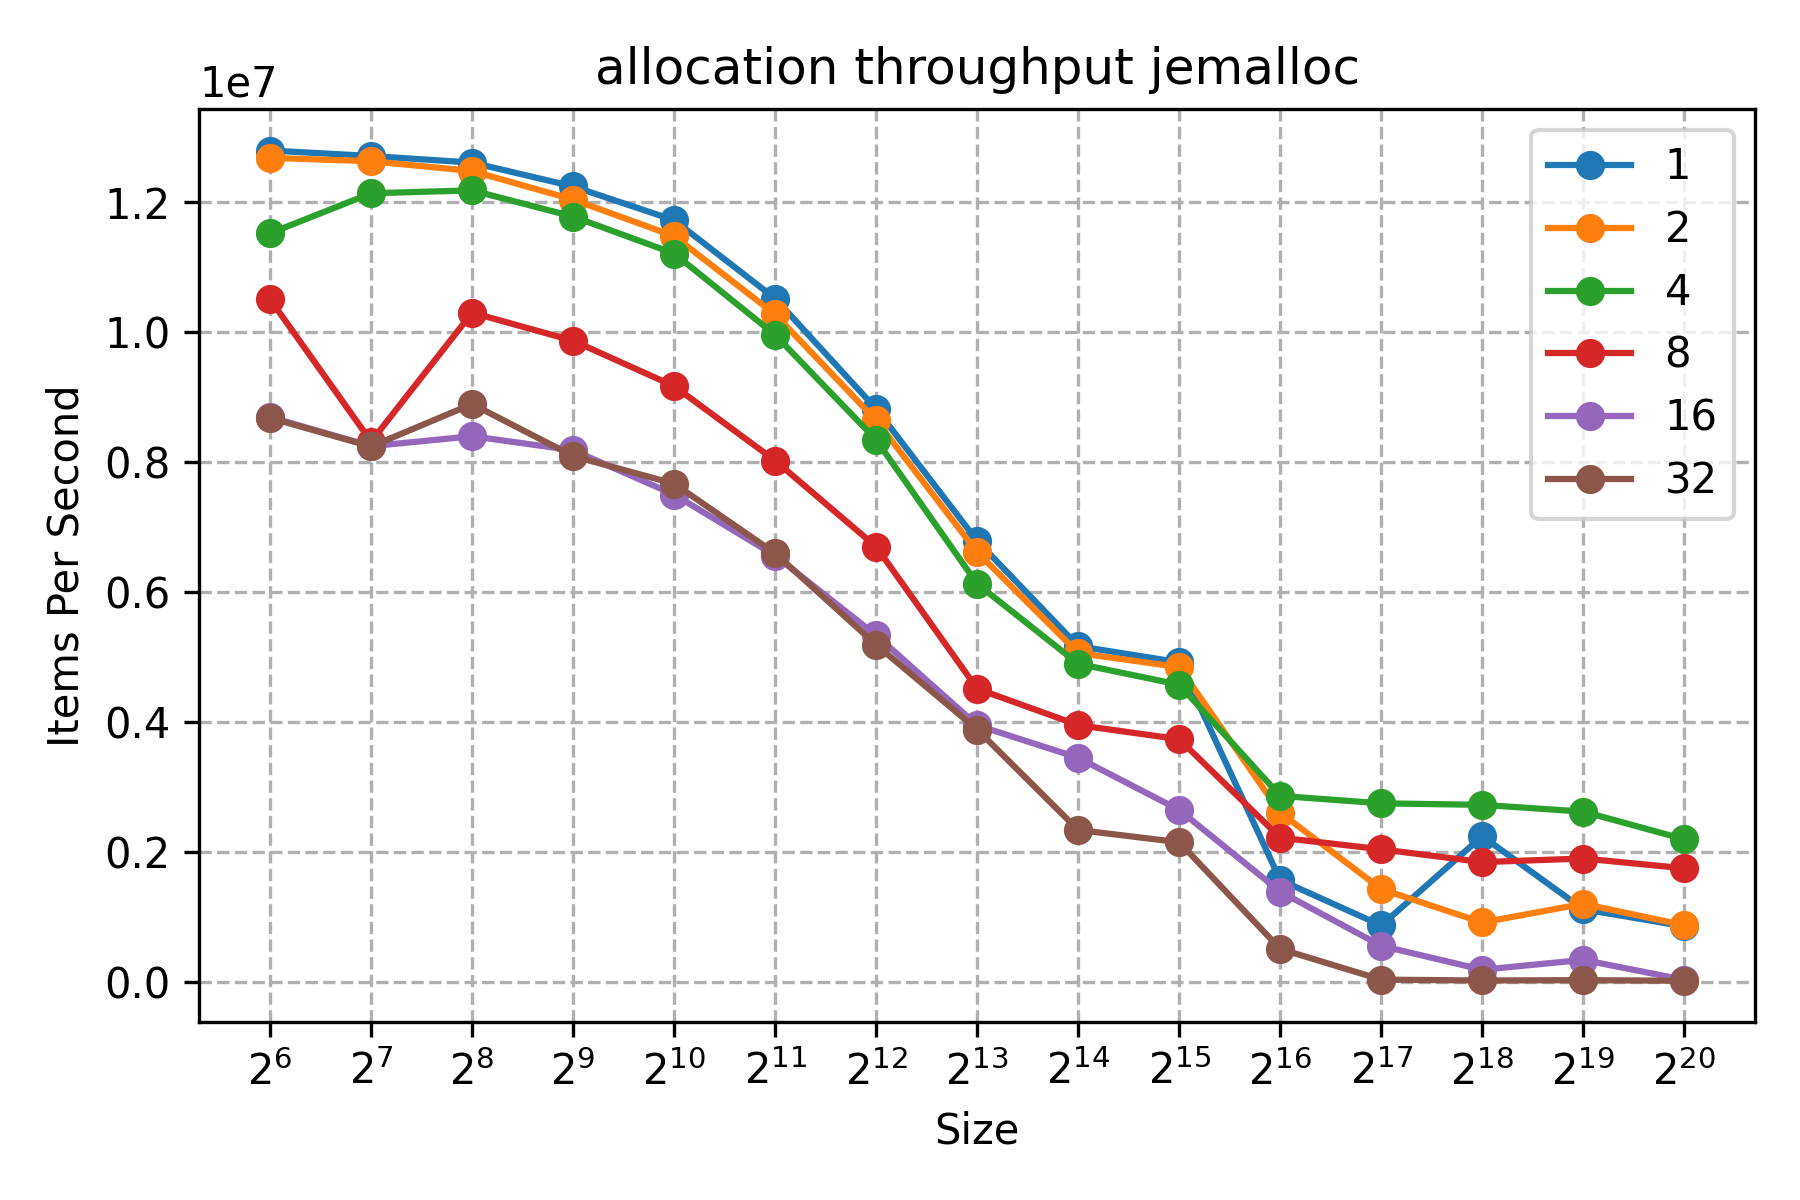
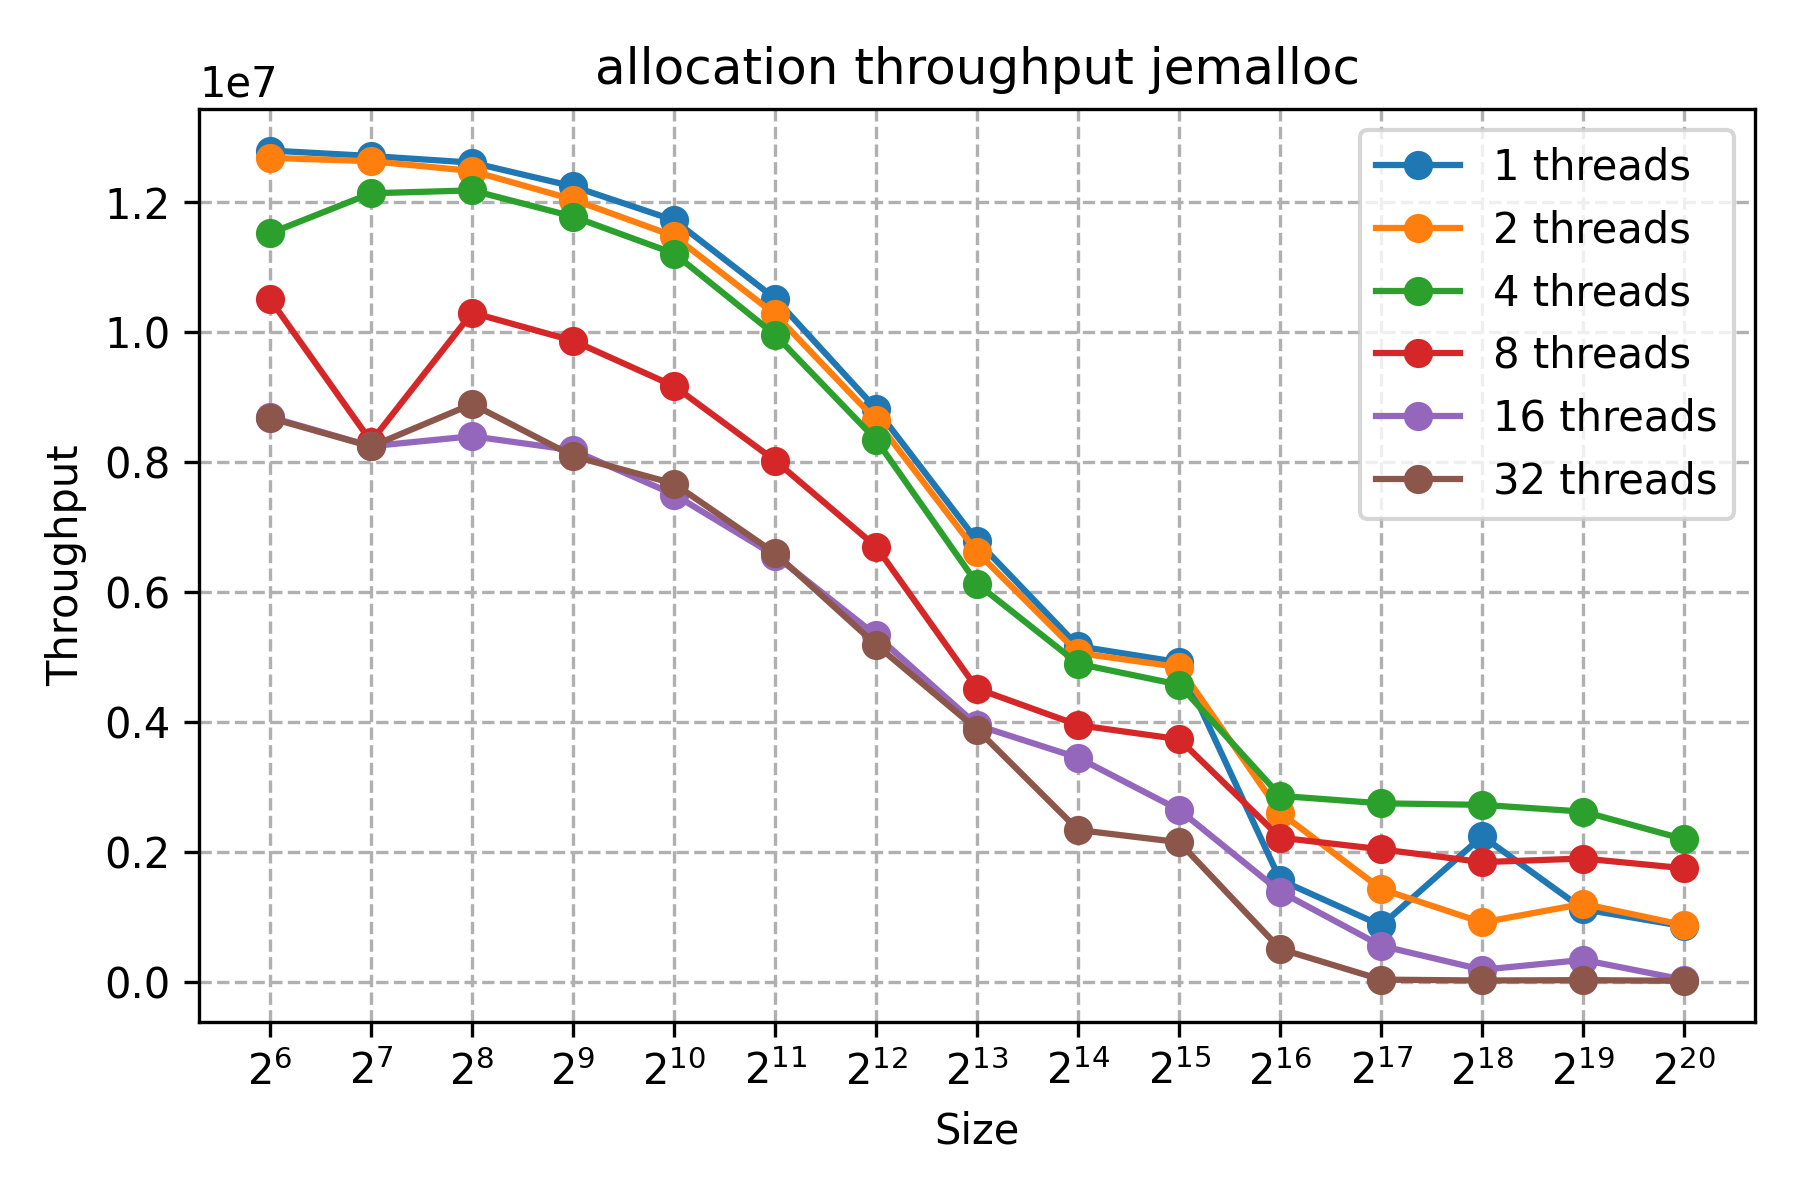
more plots

Changed region(s): [[0.7467, 0.0925, 0.9644, 0.4317], [0.0311, 0.3083, 0.0622, 0.6167]]

diff --git a/benchmark_analysis.py b/benchmark_analysis.py
@@ -64,10 +64,14 @@ def plot_data(plot_title, series_grouping, x_label, y_label, facet_group=None, p
             if y_label in entry:
                 grouped_data[entry[series_grouping]].append((entry[x_label], entry[y_label]))
 
-        for library, points in grouped_data.items():
+        for grouping_label, points in grouped_data.items():
             points.sort(key=lambda x: x[0])
             xs, ys = zip(*points)
-            ax.plot(xs, ys, marker='o', label=library)
+            if series_grouping == "threads":
+                grouping_suffix = " threads"
+            else:
+                grouping_suffix = ""
+            ax.plot(xs, ys, marker='o', label=f"{grouping_label}{grouping_suffix}")
 
         if facet_group:
             if facet_group == "size":
@@ -80,7 +84,14 @@ def plot_data(plot_title, series_grouping, x_label, y_label, facet_group=None, p
             ax.set_title(plot_title.replace("_", " "))
 
         ax.set_xlabel(x_label.title())
-        ax.set_ylabel(y_label.replace("_", " ").title())
+        y_label_final = y_label.replace("_", " ").title()
+        if y_label == "real_time":
+            y_label_final = "Latency"
+        if "time" in y_label:
+            y_label_final = f"{y_label_final} ({bm['time_unit']})"
+        if y_label == "items_per_second":
+            y_label_final = "Throughput"
+        ax.set_ylabel(y_label_final)
         ax.set_xscale('log', base=2)
 
         all_grouped_values = [size for points in grouped_data.values() for size, _ in points]
@@ -108,6 +119,11 @@ plot_data("allocation_throughput", "implementation", "threads", "items_per_secon
 plot_data("allocation_throughput", "implementation", "size", "items_per_second", facet_group="threads", plot_filter=lambda b: b["bm_name"] == "AllocationThroughput")
 plot_data("allocation_throughput_jemalloc", "threads", "size", "items_per_second", plot_filter=lambda b: b["implementation"] == "jemalloc" and b["bm_name"] == "AllocationThroughput")
 
+plot_data("allocation_latency", "implementation", "threads", "real_time", facet_group="size", plot_filter=lambda b: b["bm_name"] == "AllocationLatency")
+plot_data("allocation_latency", "implementation", "size", "real_time", facet_group="threads", plot_filter=lambda b: b["bm_name"] == "AllocationLatency")
+plot_data("allocation_latency_jemalloc", "threads", "size", "real_time", plot_filter=lambda b: b["implementation"] == "jemalloc" and b["bm_name"] == "AllocationLatency")
+
+
 def calculate_ratio(benchmark_filter, ratio_label, numerator_filter, denominator_filter):
     filtered_benchmarks = [bench for bench in benchmarks if all(bench[key] == value for key, value in benchmark_filter.items())]
     numerator_filter_lambda = lambda b: all(b[key] == value for key, value in numerator_filter.items())
@@ -132,3 +148,16 @@ calculate_ratio(
     {"implementation": "tcmalloc", "bm_name": "AllocationThroughput"},
     {"implementation": "libmalloc", "bm_name": "AllocationThroughput"}
 )
+calculate_ratio(
+    {"threads": 8, "size": 2**10},
+    "real_time",
+    {"implementation": "tcmalloc", "bm_name": "AllocationLatency"},
+    {"implementation": "libmalloc", "bm_name": "AllocationLatency"}
+)
+calculate_ratio(
+    {"threads": 8, "size": 2**20},
+    "real_time",
+    {"implementation": "tcmalloc", "bm_name": "AllocationLatency"},
+    {"implementation": "libmalloc", "bm_name": "AllocationLatency"}
+)
+
